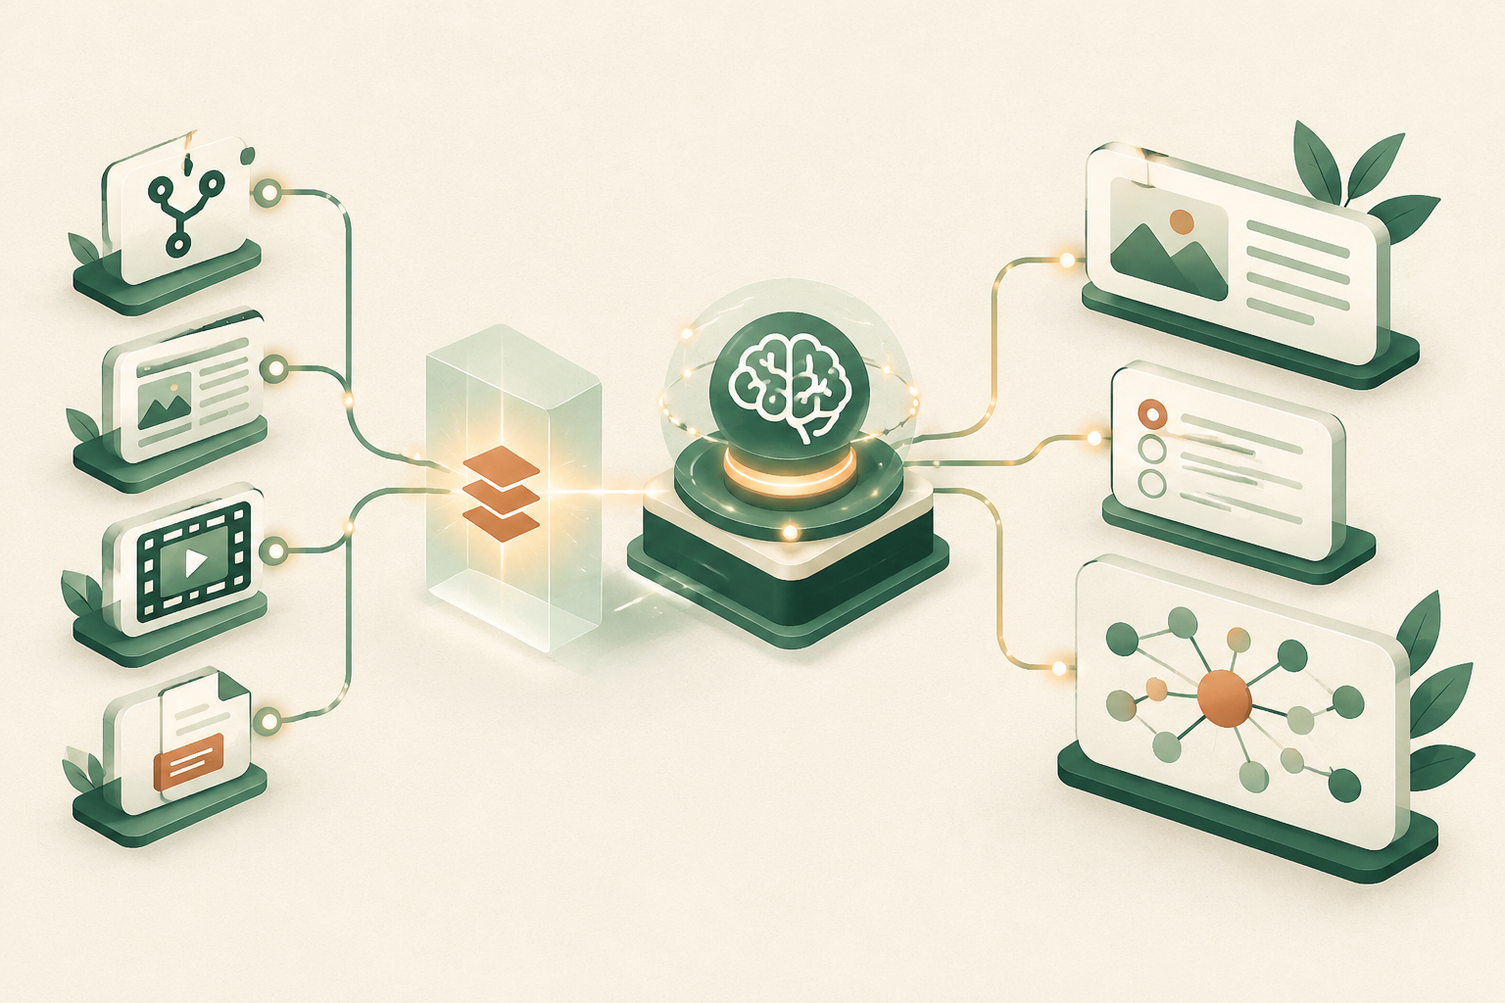
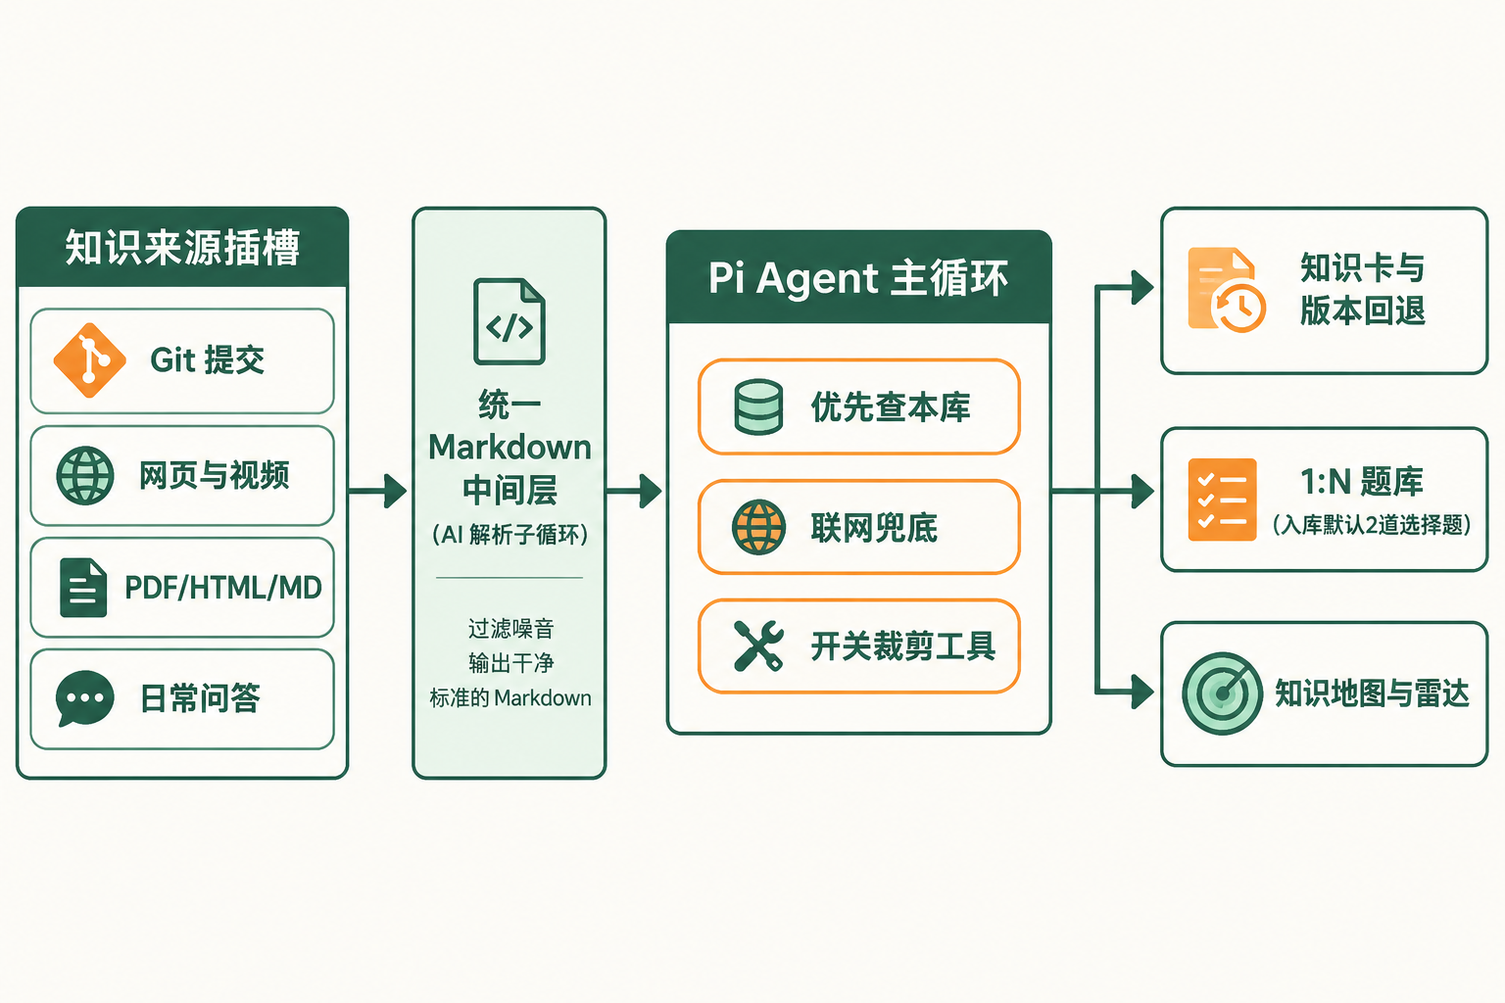
重写 README 去 AI 腔并重绘高清中文架构与界面示意图

diff --git a/README.md b/README.md
@@ -1,93 +1,92 @@
 <div align="center">
   <img src="docs/assets/brand/icon.svg" width="88" height="88" alt="知枝图标" />
   <h1>知枝 · Zhizhi Agent</h1>
-  <p><strong>多用户原生、插槽可扩展的 Agent-Native LLM Wiki 知识与练题系统。</strong></p>
-  <p>把 Git 架构沉淀、网页、视频、本地文档与日常问答统一归入标准 Markdown，再通过 Pi Agent、强绑定题库、独立错题本与知识地图真正练会。</p>
+  <p><strong>把平时读的文章、写的代码、问过 AI 的东西，整理成能查也能练的个人知识库。</strong></p>
+  <p>资料丢进来，先洗干净再存成知识卡；每张卡自动配题，做错的单独记下来。</p>
   <p>
     <a href="https://github.com/sep-zxy/zhizhi-agent/actions/workflows/ci.yml"><img src="https://github.com/sep-zxy/zhizhi-agent/actions/workflows/ci.yml/badge.svg" alt="CI" /></a>
     <a href="https://github.com/sep-zxy/zhizhi-agent/actions/workflows/cd.yml"><img src="https://github.com/sep-zxy/zhizhi-agent/actions/workflows/cd.yml/badge.svg" alt="CD" /></a>
     <a href="LICENSE"><img src="https://img.shields.io/badge/license-MIT-1f5e47.svg" alt="MIT License" /></a>
   </p>
   <p>
-    <a href="#核心架构与工作流">核心架构与工作流</a> ·
-    <a href="#预设多页交互与知返题库">预设多页与知返题库</a> ·
-    <a href="#当前阶段">当前阶段</a> ·
-    <a href="#开始使用与开发">开始使用与开发</a> ·
-    <a href="docs/architecture.md">架构文档</a> ·
-    <a href="https://github.com/sep-zxy/zhizhi-agent/issues">问题反馈</a>
+    <a href="#这个项目要解决什么">要解决什么</a> ·
+    <a href="#它怎么工作">它怎么工作</a> ·
+    <a href="#界面和练题怎么设计">界面与练题</a> ·
+    <a href="#现在做到哪一步了">当前进度</a> ·
+    <a href="#跑起来看看">跑起来看看</a> ·
+    <a href="docs/architecture.md">架构文档</a>
   </p>
 </div>
 
-## 为什么重做 Zhizhi Agent
+## 这个项目要解决什么
 
-日常学习与工程实践中的知识散落在代码提交、技术文章、视频教程、PDF 文档与 AI 对话里：收藏之后很少回看，问过 AI 之后转头就忘，而把杂乱的原始材料直接塞给大模型又会严重拉低回答与沉淀质量。
+写代码、看文档、刷技术视频、跟 AI 聊方案，这些事每天都在发生，但东西散在十几个地方。收藏夹吃灰，聊天记录翻不到，真正遇到同类问题还是得重新搜一遍。
 
-**Zhizhi Agent** 是面向编程学习（同时兼容全领域）的新一代 **Agent-Native LLM Wiki** 系统。它从第一天起就按**多人原生账号隔离**与**可热拆卸插件架构**设计，用全栈 TypeScript Monorepo + **Pi Agent（`@earendil-works/pi-agent-core` / `@earendil-works/pi-ai`）** 驱动核心循环，兼顾**零 Docker 本地极速运行**与**团队共享服务器部署**。
+知枝想做的是一件很具体的事：**给你一个带 AI 助手的知识库，而且能顺手出题把你考会。**
 
-**项目当前处于 V1 基座就绪与业务域并行建设阶段。下面的架构图描述完整目标体系，当前已完成基座与待补齐模块详见[当前阶段](#当前阶段)。**
+你在里面可以做四件事：
 
-## 核心架构与工作流
+- **收资料**：把网页链接、B 站/YouTube 视频、本地 PDF/HTML/Markdown 文件，或者你自己的 Git 提交记录喂给它。
+- **存知识卡**：整理成一个个独立的知识点页面，可以修改、查重、看历史版本，也能按主题串起来。
+- **问问题**：只有一个聊天窗口。你问它问题时，它自己判断先翻你的知识库；库里没记过，就去网上搜，不胡说。
+- **刷题和查漏**：每张知识卡背后挂着对应的练习题。做错了会进独立的错题本，知识地图里还能一眼看出哪一块还没学透。
 
-所有原始知识来源不直接进入主循环，而是先通过**插槽式插件**与**异步 AI 解析子循环**清洗为通过运行时 Schema 校验的 **Standard Markdown**，再交由统一三出口（仅收藏 / 进待学 / 预览存卡）与 **Pi Agent 主循环**协作。
+项目目前还在早期开发，基座刚搭完，业务功能正按模块陆续补上。下面两张图画的是我们要做出来的样子，当前已经跑通的部分看[现在做到哪一步了](#现在做到哪一步了)。
 
-![知枝核心链路：插槽来源经统一 Markdown 中间层进入 Pi Agent 主循环并产出知识卡、选择题与知识地图](docs/assets/vision/architecture-overview.png)
+## 它怎么工作
 
-| 我想做的事 | Zhizhi Agent 的设计方式 |
+![知枝核心流程：知识来源插槽经统一 Markdown 中间层进入 Pi Agent 主循环，产出知识卡、1:N 题库与知识地图](docs/assets/vision/architecture-overview.png)
+
+如果把杂乱的 PDF、长视频字幕、几十条零碎 Git commit 直接塞给主聊天模型，回答质量很快就会垮掉。所以我们把流程拆成了两段：
+
+1. **先用插槽解析，再进主循环**
+   每种来源都是一个独立插槽（支持内置插件，也可以挂外部 MCP 服务）。像 B 站、抖音这种经常改接口的站点，拆出去单独维护，拿掉任意一个也不影响主程序运行。
+   文件进来之后，先交给后台的 AI 子循环处理表格、提取图片存起来，统一洗成干净的 Markdown，校验通过后再交给你选去向：**仅收藏**、**放待学**，或者**预览后存成知识卡**。
+
+2. **Git 提交只留架构思路，不囤源码**
+   采集器把一堆零散提交去噪合并后，先总结成架构层面的 Markdown（当时遇到什么问题、怎么取舍的），彻底脱离原仓库代码片段。以后原仓库删了，知识卡和题目照样独立可用。
+
+3. **一套代码，个人电脑和团队服务器都能跑**
+   从第一版起就做了多人账号隔离，所有数据都按 `user_id` 分开。你一个人想在本地用，不用装 Docker，直接 `pnpm dev` 就能跑嵌入式数据库；团队要部署到一台共享服务器，配个 PostgreSQL 连接串就能无缝切过去。
+
+| 平时遇到的问题 | 在知枝里怎么用 |
 |---|---|
-| 统一收纳多源资料且不绑死站点 | 将网页、B 站/YT/抖音视频、HTML/PDF/Word/MD、Git 采集器封装为可拆卸插槽（内置 Slot / 外部 MCP），卸载任一插件不影响主干运行 |
-| 避免脏文档污染主对话质量 | PDF 表格重排、图片上传对象存储（OSS / LocalFs）、去噪结构化全部前置到**独立 AI 解析子循环**，产出统一 `StandardMarkdown` |
-| 从 Git 提交提炼可复用知识 | 跨端采集器（Win/Mac）对多条 Commit 去噪归并并做**架构级抽象总结**，剥离易失源码片段，知识卡与出题彻底脱离原仓库 |
-| 日常问答与查知识库不分裂 | 合并为单一「统一问答页」：Pi Agent 自主优先检索当前账号知识库（命中附出处），未命中自动触发联网搜索兜底 |
-| 精确控制 AI 何时制卡、出什么题 | 界面提供显式**「生成知识卡」技能开关**与**「题型开关」**，后端按开关动态裁剪下发给 Pi Agent 的 Tool 白名单，关掉即不可能误调 |
-| 团队共享服务器与个人本地两用 | V1 原生全表强制 `user_id` + RLS 隔离；本地零 Docker 默认嵌入式 **PGlite + LocalFs + DB 队列**，填环境变量无缝切标准 PG / S3 |
+| 搜到一篇好文章或长视频，怕收藏完就忘 | 丢进来源页，后台洗成图文 Markdown，预览删改后一键存成知识卡或放待学 |
+| 项目一天提交几十次，想复盘却懒得翻 diff | 跨端 Git 采集器把同主题提交归并成 2～3 个架构要点，不含冗长源码 |
+| 忘了自己以前记没记过某个坑 | 直接在问答页问；Agent 优先翻你的知识库并附出处，没找到再去联网搜 |
+| 聊着聊着想把结论存下来，又怕 AI 乱建卡 | 平时关着「生成知识卡」开关只聊天；想存的时候打开开关，先预览，点保存才入库 |
 
-### 统一 Markdown 中间层与双循环解耦
+## 界面和练题怎么设计
 
-| 层级 | 运行机制 | 解决的核心问题 |
-|---|---|---|
-| **插槽来源层** (`@zhizhi/plugin-sdk`) | 内置进程槽 + 外部 MCP Server（支持独立 Python `uv` 二开开源解析器） | 强反爬视频站点、复杂版面 PDF/OCR 可随时独立升级或热卸载 |
-| **AI 解析子循环** (`runPiSubLoopTask`) | 异步后台任务（`DbJobQueue`），独立于主会话上下文执行结构化提取与 Schema 校验 | 阻断原始大文件噪声进入主循环，保持对话与制卡质量稳定 |
-| **Pi Agent 主循环** (`runPiAgentTurn`) | 基于 `@earendil-works/pi-agent-core` 的受控循环，含 `beforeToolCall` 二次拦截与 `finishTurn` 步数上限 | 开关白名单确定性裁剪工具、Pin 槽位硬保护、双通道 SSE 流式输出 |
+![知枝界面与练题闭环：6 个独立功能页、页内受控卡片槽支持钉住、右侧对话流通过开关控制可用工具](docs/assets/vision/workspace-and-quiz-loop.png)
 
-## 预设多页交互与知返题库
+我们不想做成“全靠打字聊天”的黑盒界面，也不想让 AI 随机把整个页面改乱。
 
-前端不搞失控的全局自由生成 UI，而是按功能划分为 **6 个预设情境独立页**（问答、搜索、知识来源、LLM Wiki、地图与雷达、独立错题本），仅在页内受控卡片槽允许用户与 Agent 投放**白名单预设卡片**并支持右上角「钉住（Pin）」防覆写；交互状态与习惯按 `user_id × page_scene` 持久化记忆，退出重登无缝续接。
+- **按功能分成 6 个独立页面**：问答、搜索、来源、Wiki、地图雷达、错题本，每个页面都有固定布局，点按钮就能直接操作，手机端也能自然变成底部 6 个 Tab。
+- **页内放受控卡片槽，支持「钉住」**：在问答页里，Agent 可以把知识卡、草稿对比卡、选择题卡直接投到中间区域。你点一下卡片右上角的「钉住」，后面再怎么继续聊，它都不会把这张卡顶掉。退出重登时，记忆系统会把你的卡片排布和常用开关恢复回来。
+- **题型做成工具，开关直接锁权限**：每种题型是一个独立的 Agent 工具。V1 先做好**选择题（带解析）**，后续再插判断题、填空题、问答题。界面上把哪个题型关了，后端就不会把这个工具发给模型，它绝对不会乱出题。
+- **一张卡挂多道题，入库默认先出两道**：新知识卡点保存立即返回，后台异步默认出 2 道选择题——一道考**理解概念**，一道考**实际场景怎么用**（怕费 Token 可以在设置里关掉）。以后你又传了新文档补充这张卡，AI 会先看已有题目覆盖了没，没覆盖才补新题。
+- **错题本完全独立，能归档能删**：错题页只做客观记录，不跟入库流程缠在一起。觉得某道错题已经彻底会了，可以直接归档或删掉，免得越攒越多没法看。
+- **地图看全局，雷达指方向**：知识地图把相关的卡连起来，按掌握情况标颜色；知识雷达直接读这张地图，告诉你已经掌握了哪一块、缺了哪一块，推荐下一张值得学的卡。
 
-![知枝工作台与巩固闭环：6 页预设情境骨架、页内钉住知识卡与选择题卡、右侧开关驱动对话与知识地图联动](docs/assets/vision/workspace-and-quiz-loop.png)
+## 现在做到哪一步了
 
-### 强绑定 1:N 题库、独立错题页与地图驱动雷达
+开发基座已经搭完并跑通了本地与云端 CI（TypeScript 双面检查、`oxlint`、5 条静态门禁、单元测试、Web 构建全绿）：
 
-- **题目与知识卡强绑定（1:N 多题挂靠）**：独立 `card_questions` 题库表绑定 `card_id` 与版本号。用户通过 PDF、Word 多次补充同一知识点或隔段时间反复复习时，题目持续挂靠在同一知识卡题池中。
-- **入库默认异步出 2 道选择题 + 改卡判重**：新卡点「保存」立即返回，后台异步默认生成 **2 道选择题**——① **认知理解题**（概念原理辨析）、② **实际情境应用预测题**（场景推演与架构决策），并在设置中提供全局开关控费；补卡或更新时，AI 对照变更 Diff 与已有题摘要判断覆盖度，未覆盖才增量补题。
-- **题型工具化扩展**：每种题型均为独立 Agent Tool——V1 优先交付**选择题（单/多选 + 解析）**，V1.5 通过 Tool 注册表平滑扩展**判断题、填空题、问答题与伪代码预测题**。
-- **独立错题页面（完全解耦入库）**：错题单独成页，仅作为客观练题记录不反向耦合 Wiki 入库流程；支持原题重练、变式巩固以及**归档与删除**，防止错题无限积压。
-- **知识雷达锚定在知识地图之上**：知识雷达以知识地图的拓扑关系与各节点掌握/错题状态为输入，识别已掌握集群与缺失缺口，推荐下一张最值得学习的待学知识卡。
+- **已经跑通的基座**：
+  - 全栈 TypeScript pnpm Monorepo，参考了 DeepSeek Harness 的工程规范与静态门禁。
+  - 真实接入了 Pi Agent（`@earendil-works/pi-agent-core` 与 `@earendil-works/pi-ai`），支持 DeepSeek、OpenAI 及任意 OpenAI 兼容中转站；没配 API Key 时自动走官方 `fauxProvider` 跑完整工具循环，本地开发和测试不花 Token。
+  - 18 张多租户表结构（Drizzle ORM），本地默认 PGlite 嵌入式数据库 + 本地文件存储 + 数据库队列（V1 不需要装 Redis 和 Docker）；填配置即切 PostgreSQL 与 S3/OSS。
+  - Hono 服务端（注册/登录 JWT、租户隔离中间件、按页面存画布记忆、双通道 SSE 对话）与 React 19 + Tailwind 前端骨架（6 页路由、移动底栏、PWA 配置、问答页钉住与开关演示）。
+- **接下来要补齐的 4 条业务线**（分工见 [docs/architecture.md](docs/architecture.md)）：
+  1. 知识卡与主题页的完整增删改查、版本回退、中文搜索。
+  2. 网页、视频截帧、本地文件解析插件与 AI 解析子循环，以及外部 Python MCP 解析示例。
+  3. Win/Mac Git 采集器与知识地图渲染。
+  4. 知识卡入库异步出 2 题与改卡判重、独立错题页、基于地图的知识雷达。
 
-## 当前阶段
+## 跑起来看看
 
-开发基座已按 DeepSeek Harness 工程规范搭建完毕，且 `typecheck` / `oxlint` / 5 条静态门禁 / 单元与多租户测试 / Web 构建全部跑绿：
-
-- **已完成基座**：
-  - 全栈 TypeScript pnpm Monorepo（`@zhizhi/brand`、`errors`、`contracts`、`db`、`storage`、`jobs`、`plugin-sdk`、`agent-runtime`、`client-core`、`apps/server`、`apps/web`）。
-  - **真实 Pi Agent 核心层**：接入 `@earendil-works/pi-agent-core` 与 `@earendil-works/pi-ai`（DeepSeek / OpenAI / OpenAI 兼容中转 + 官方 `fauxProvider` 零费测试真循环）。
-  - **零 Docker 双驱动存储与队列**：Drizzle ORM 18 张完整表结构（PGlite 本地嵌入式 / PostgreSQL 生产无缝切换）、`LocalFs / S3` 存储缝隙、去 Redis 的 `DbJobQueue`。
-  - **Hono 多租户服务端 + React 19 多页骨架**：JWT 鉴权、双通道 SSE `/api/v1/chat/turn`、按情境页记忆 `/api/v1/canvas-state`、桌面左侧 6 页导航 + 移动端底部 6 Tab + PWA Manifest。
-  - **工程门禁与自动化**：`oxlint --type-aware`、5 条静态门禁（禁 `as unknown` / 禁空 `catch` / 防前端误引后端 / 强制租户作用域 / ESM 导出）、`lefthook` Git Hooks 与 GitHub Actions CI/CD。
-- **接下来 4 条并行研发主线**（详见 [docs/architecture.md](docs/architecture.md)）：
-  1. **A 线（底座与 Wiki）**：知识卡 CRUD、预览确认保存、历史版本对比回退、主题页与中文混合检索。
-  2. **B 线（插槽与中间层）**：网页/视频截帧与本地 HTML/PDF/MD 插件、AI 解析子循环 Worker 与外部 Python MCP 插件模板。
-  3. **C 线（Git 与地图）**：Win/Mac 跨端只读 Git 采集器（架构总结输出 Standard MD）、知识地图图谱引擎与状态着色。
-  4. **D 线（Agent 与知返题库）**：真实 `kb_search`/`web_search` 接线、入库异步 2 选择题与改卡判重 Worker、独立错题页（归档/删除）与地图驱动雷达。
-
-## 开始使用与开发
-
-### 环境要求
-
-- **Node.js** `>= 24.12.0`
-- **pnpm** `10.x`
-- **Docker**：完全**可选**（本地开发与个人单机零 Docker 直接运行；共享服务器可按需使用 `deploy/docker-compose.yml`）
-
-### 零 Docker 一键启动本地开发
+需要 Node.js `>= 24.12.0` 和 pnpm `10.x`。本地跑**不需要 Docker**。
 
 ```sh
 git clone https://github.com/sep-zxy/zhizhi-agent.git
@@ -96,73 +95,56 @@ pnpm install
 pnpm dev
 ```
 
-启动后访问：
-- Web 前端：`http://127.0.0.1:5173`（自动代理 `/api` 至后端）
-- 后端服务：`http://127.0.0.1:3080`（默认自动初始化 `.zhizhi/pgdata` 嵌入式 PGlite 与 `.zhizhi/storage`）
+启动后：
+- 前端页面：`http://127.0.0.1:5173`
+- 后端接口：`http://127.0.0.1:3080`（自动在 `.zhizhi/` 下初始化本地数据库和文件目录）
 
-### 全套质量门禁与测试
+本地运行全部检查和测试：
 
 ```sh
-pnpm run typecheck        # Host (Node) + Client (Browser) 双编译面严格检查
-pnpm run lint             # oxlint --type-aware 检查
-pnpm run check            # 5 条自定义静态门禁（含租户隔离与分层依赖边界）
-pnpm run test             # 单元与多租户隔离测试（Pi Agent fauxProvider 零 Token）
-pnpm run check:all        # 推送前一键完整校验
+pnpm run check:all
 pnpm --filter @zhizhi/web run build
 ```
 
-### 共享服务器部署（裸机或 Docker）
-
-配置 `DATABASE_URL=postgres://...` 与对象存储环境变量即可直连宿主机 PG / 云 RDS / 阿里云 OSS；如需容器化拉起 PG（含 pgvector）与 MinIO：
+如果你想在共享服务器上用容器拉起 PostgreSQL（含 pgvector）和 MinIO：
 
 ```sh
 docker compose -f deploy/docker-compose.yml up -d
 ```
 
-CI/CD 流水线已内置在 `.github/workflows/`：
-- **CI (`ci.yml`)**：每次 Push / PR 自动校验 `typecheck`、`lint`、`check`、`test` 与 Web 生产构建。
-- **CD (`cd.yml`)**：推送 `v*` 标签或手动触发时构建发布归档产物，并构建服务端/前端容器镜像（推送至 GHCR）。
+仓库里已经配好了 GitHub Actions：每次 Push / PR 会跑 `ci.yml` 检查代码和构建；打 `v*` 标签或手动触发 `cd.yml` 会构建镜像推到 GHCR 并生成 Release。
 
-## 项目结构
+## 目录结构
 
 ```text
 zhizhi-agent/
-├── AGENTS.md / CLAUDE.md       # 工程红线与 AI 协作规范（参考 DeepSeek Harness）
+├── AGENTS.md / CLAUDE.md       # 工程红线与 AI 协作约定
 ├── docs/
-│   ├── architecture.md         # 五层架构与能力缝隙索引
-│   ├── core-guidelines/        # G/B/F 编码规范
-│   ├── specs/                  # 完整产品功能树 (v3.2) 与架构蓝图 (v1.2) HTML
-│   └── assets/                 # 品牌图标与架构视觉图
+│   ├── architecture.md         # 分层架构与 4 人并行接口边界
+│   ├── core-guidelines/        # 编码规范
+│   ├── specs/                  # 完整功能树 (v3.2) 与架构设计 (v1.2) HTML
+│   └── assets/                 # 图标与示意图
 ├── packages/
-│   ├── shared/
-│   │   ├── brand/              # Branded<T> 品牌 ID 与跨环境安全 ID 生成
-│   │   ├── errors/             # 结构化错误 ZhizhiError
-│   │   └── contracts/          # 跨端共享 Zod 契约（StandardMD / Quiz / Canvas / SSE）
-│   ├── infra/
-│   │   ├── db/                 # Drizzle ORM + 18 张多租户表 + PGlite/PG 双驱动
-│   │   ├── storage/            # StorageProvider 缝隙（LocalFs / S3）
-│   │   └── jobs/               # 基于 async_jobs 表的持久化异步队列（无 Redis）
-│   ├── ingest/
-│   │   └── plugin-sdk/         # 可拆卸来源插件注册表（Slot + MCP）与 MD 校验
-│   ├── agent/
-│   │   └── runtime/            # Pi Agent Core 主循环 + Pi AI 子循环与多模型路由
-│   └── client/
-│       └── core/               # 零 DOM 状态机与 SSE 解析（兼容未来移动端）
+│   ├── shared/                 # brand（品牌 ID）、errors、contracts（Zod 契约）
+│   ├── infra/                  # db（PGlite/PG）、storage（LocalFs/S3）、jobs（异步队列）
+│   ├── ingest/plugin-sdk/      # 来源插槽协议（Slot + MCP）与 Markdown 校验
+│   ├── agent/runtime/          # Pi Agent 主循环、工具开关裁剪、独立子循环
+│   └── client/core/            # 零 DOM 前端状态机与 SSE 解析（方便以后做手机端）
 ├── apps/
-│   ├── server/                 # Hono HTTP + SSE 后端与多租户鉴权中间件
-│   └── web/                    # React 19 + Vite + Tailwind（6 个预设情境独立页 + PWA）
-├── scripts/                    # 5 条可执行静态门禁脚本（pnpm run check）
-├── deploy/                     # 可选 Dockerfile 与 docker-compose.yml 部署模板
-└── .github/workflows/          # CI (门禁/测试/构建) 与 CD (Release / GHCR 镜像)
+│   ├── server/                 # Hono 服务端与多租户鉴权
+│   └── web/                    # React 19 + Vite + Tailwind 前端
+├── scripts/                    # 5 条静态门禁（禁 as unknown、查租户隔离、查跨层引用等）
+└── deploy/                     # Dockerfile 与可选 docker-compose.yml
 ```
 
-## 数据、隐私与安全边界
+## 隐私与安全
 
-- **四重多租户隔离**：JWT/PAT 鉴权上下文注入 → `withTenant()` + PostgreSQL RLS 兜底 → 检索前置 `user_id` 过滤 → 对象存储强校验 `u/{user_id}/...` 路径前缀。
-- **写入需确认**：Agent 仅产出知识卡草稿投放至受控画布槽，用户点击保存才正式落库并保留全量历史版本；模型密钥与凭据严禁提交至仓库。
+- 数据按账号四层隔离：登录令牌定身份、数据库查 `user_id`、检索先过滤租户、附件按 `u/{user_id}/` 分目录存放。
+- AI 生成或修改知识卡只出草稿，点保存才正式写入，且每次保存留历史版本。
+- 模型 API Key 由用户自行配置，不随仓库分发，也不要把 `.env` 提交进 Git。
 
-## 贡献与许可证
+## 参与贡献与许可证
 
-欢迎通过 Issue 与 Pull Request 参与讨论和共建，请先阅读 [CONTRIBUTING.md](CONTRIBUTING.md) 与 [AGENTS.md](AGENTS.md)。
+欢迎提 Issue 或 Pull Request，动工前先看 [CONTRIBUTING.md](CONTRIBUTING.md) 和 [AGENTS.md](AGENTS.md)。
 
-本项目基于 [MIT License](LICENSE) 开源。
+使用 [MIT License](LICENSE) 开源。
